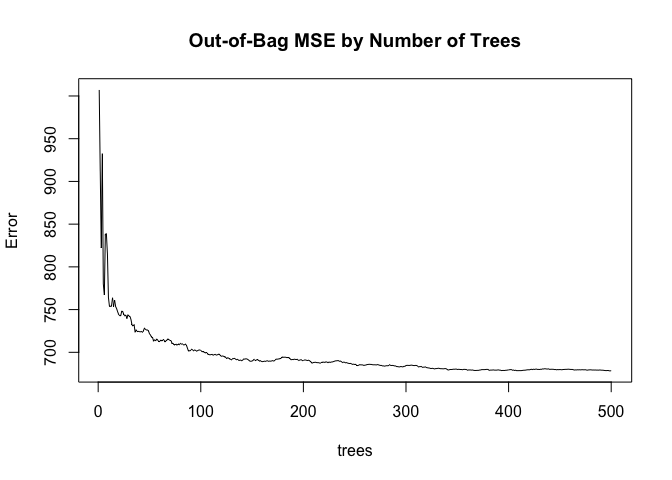
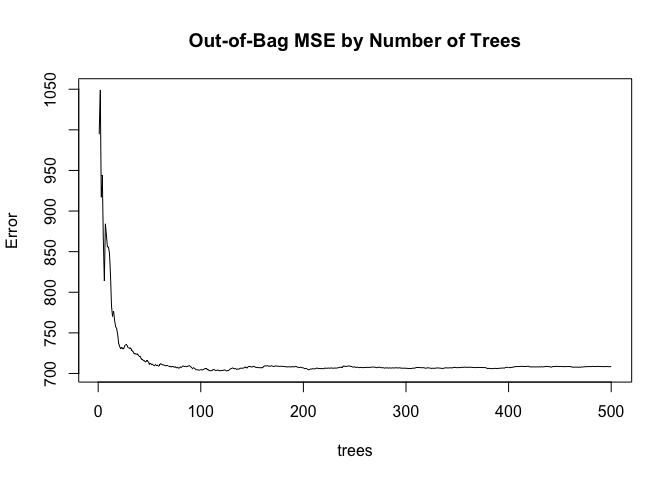
HW3

diff --git a/HW3.md b/HW3.md
@@ -1,8 +1,6 @@
-\#What causes what?
+# What causes what?
 
-\#\#\#Why can’t I just get data from a few different cities and run the
-regression of “Crime” on “Police” to understand how more cops in the
-streets affect crime?
+### Why can’t I just get data from a few different cities and run the regression of “Crime” on “Police” to understand how more cops in the streets affect crime?
 
 The relationship between number of polices and crime rate suffers from
 endogeneity, x (number of polices) correlates with e (could be city’s
@@ -136,11 +134,11 @@ statistically significant effects of police on crime.
 
 ![](HW3_files/figure-markdown_github/setup%201.1-1.png)
 
-    ## [1] 0.06882879
+    ## [1] 0.0363064
 
 ![](HW3_files/figure-markdown_github/setup%201.1-2.png)![](HW3_files/figure-markdown_github/setup%201.1-3.png)
 
-    ## [1] 225
+    ## [1] 207
     ## attr(,"smoother")
     ## Call:
     ## loess(formula = object$oobag.improve ~ x, enp.target = min(max(4, 
@@ -148,15 +146,15 @@ statistically significant effects of police on crime.
     ## 
     ## Number of Observations: 10000 
     ## Equivalent Number of Parameters: 39.99 
-    ## Residual Standard Error: 0.1378
+    ## Residual Standard Error: 0.1252
 
-    ## [1] 31.71668
+    ## [1] 30.0531
 
-    ## [1] 27.89065
+    ## [1] 28.85954
 
-    ## [1] 28.27091
+    ## [1] 27.36282
 
-    ## [1] 33.2412
+    ## [1] 28.05037
 
 <table class="table table-striped" style="width: auto !important; margin-left: auto; margin-right: auto;">
 <caption>
@@ -177,7 +175,7 @@ RMSE
 RMSE CART
 </td>
 <td style="text-align:right;">
-31.71668
+30.05310
 </td>
 </tr>
 <tr>
@@ -185,7 +183,7 @@ RMSE CART
 RMSE CART Prune
 </td>
 <td style="text-align:right;">
-27.89065
+28.85954
 </td>
 </tr>
 <tr>
@@ -193,7 +191,7 @@ RMSE CART Prune
 RMSE Random Forest
 </td>
 <td style="text-align:right;">
-28.27091
+27.36282
 </td>
 </tr>
 <tr>
@@ -201,7 +199,7 @@ RMSE Random Forest
 RMSE Gradient Boosting
 </td>
 <td style="text-align:right;">
-33.24120
+28.05037
 </td>
 </tr>
 </tbody>
@@ -6330,7 +6328,7 @@ Average RMSE
 Hand-Built Linear Model
 </td>
 <td style="text-align:right;">
-11.64639
+11.75309
 </td>
 </tr>
 <tr>
@@ -6338,7 +6336,7 @@ Hand-Built Linear Model
 Forward Selection Linear Model
 </td>
 <td style="text-align:right;">
-10.99948
+11.05393
 </td>
 </tr>
 <tr>
@@ -6346,7 +6344,7 @@ Forward Selection Linear Model
 Lasso
 </td>
 <td style="text-align:right;">
-12.01774
+12.13637
 </td>
 </tr>
 </tbody>
@@ -6367,8 +6365,8 @@ random forest.
     ##                      Number of trees: 500
     ## No. of variables tried at each split: 17
     ## 
-    ##           Mean of squared residuals: 48.82622
-    ##                     % Var explained: 76.98
+    ##           Mean of squared residuals: 54.32594
+    ##                     % Var explained: 76.67
 
 The plot below shows that the bagging procedure can produce quite
 accurate predictions most of the time.
@@ -6409,7 +6407,7 @@ LOOCV RMSE
 LOOCV RMSE Rent Hand-Built Model
 </td>
 <td style="text-align:right;">
-11.751514
+11.773307
 </td>
 </tr>
 <tr>
@@ -6417,7 +6415,7 @@ LOOCV RMSE Rent Hand-Built Model
 LOOCV RMSE Rent Forward Selection Model
 </td>
 <td style="text-align:right;">
-11.062031
+11.101607
 </td>
 </tr>
 <tr>
@@ -6425,7 +6423,7 @@ LOOCV RMSE Rent Forward Selection Model
 LOOCV RMSE Model Lasso Model
 </td>
 <td style="text-align:right;">
-12.136549
+12.150734
 </td>
 </tr>
 <tr>
@@ -6433,7 +6431,7 @@ LOOCV RMSE Model Lasso Model
 LOOCV RMSE Model Bagging Model
 </td>
 <td style="text-align:right;">
-6.734157
+7.125477
 </td>
 </tr>
 <tr>
@@ -6441,7 +6439,7 @@ LOOCV RMSE Model Bagging Model
 LOOCV RMSE Model RandomForest Model
 </td>
 <td style="text-align:right;">
-7.171239
+7.498559
 </td>
 </tr>
 </tbody>
